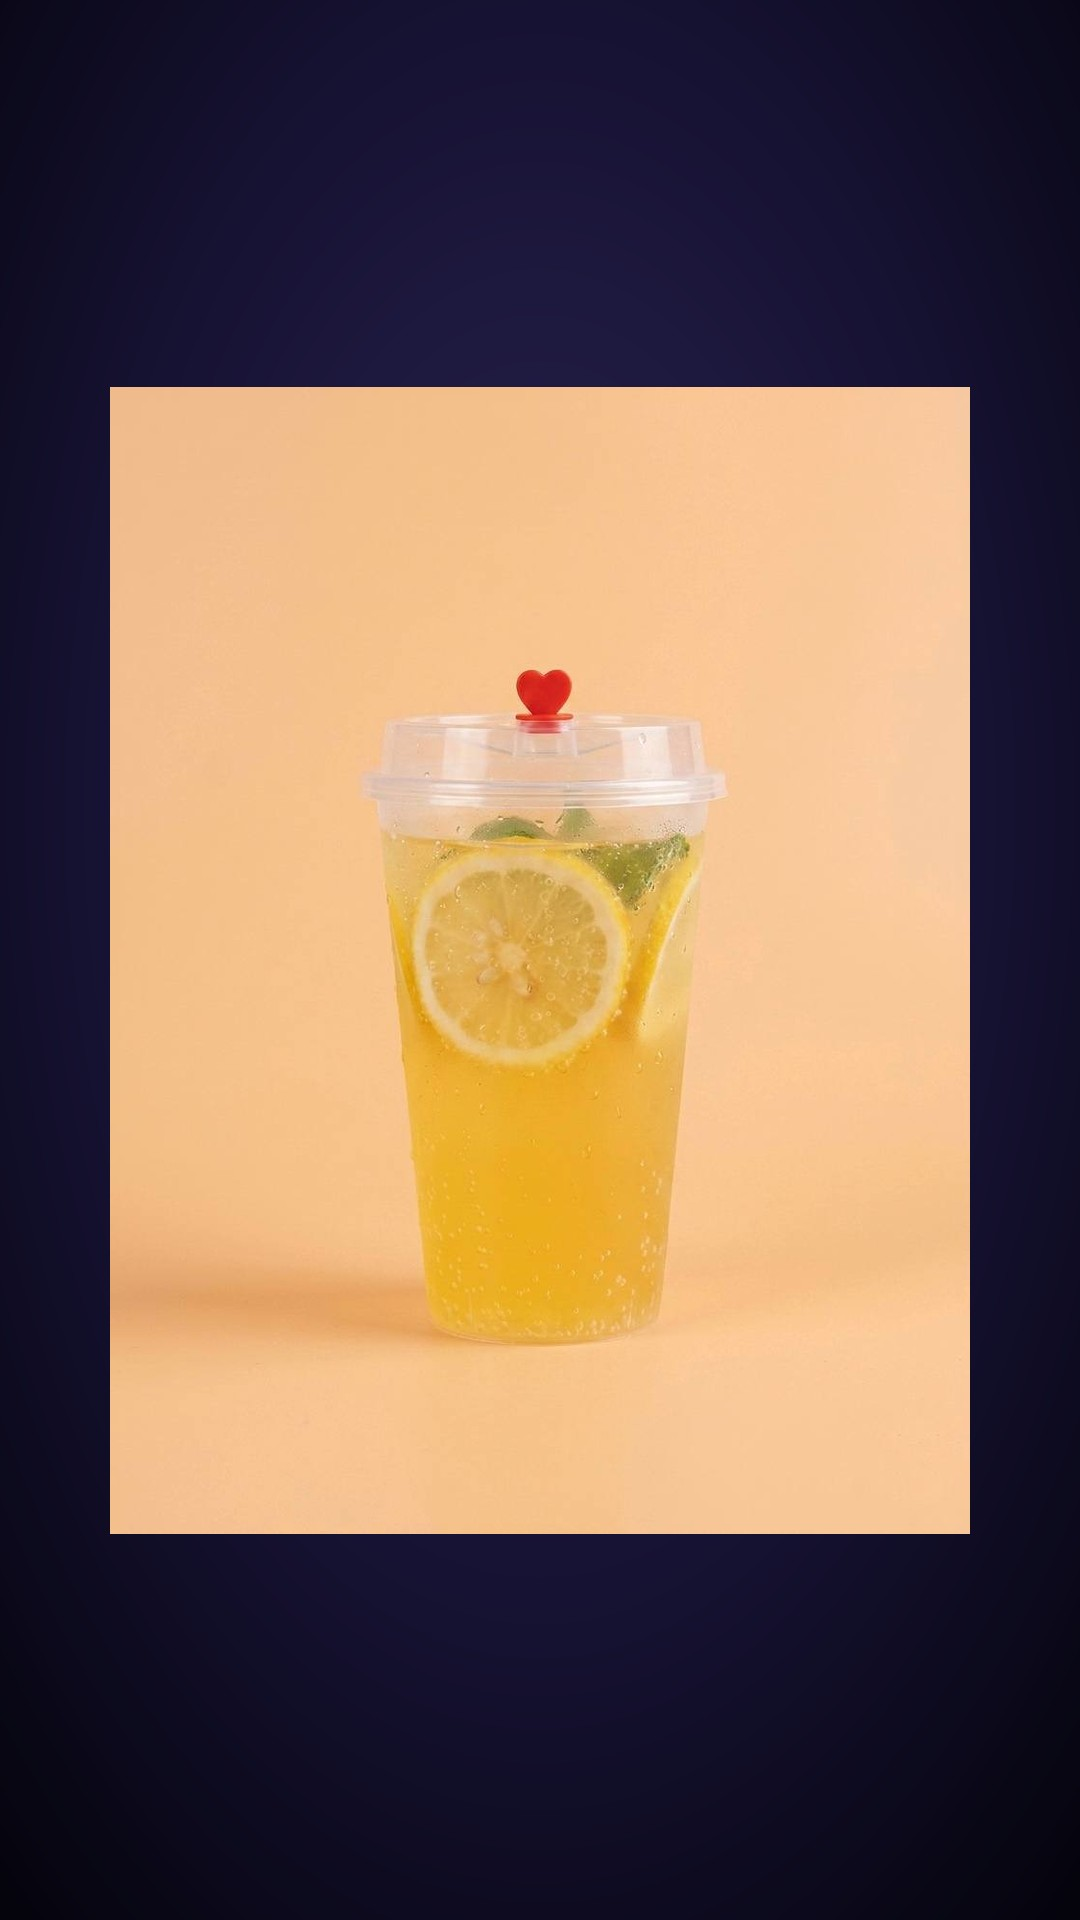
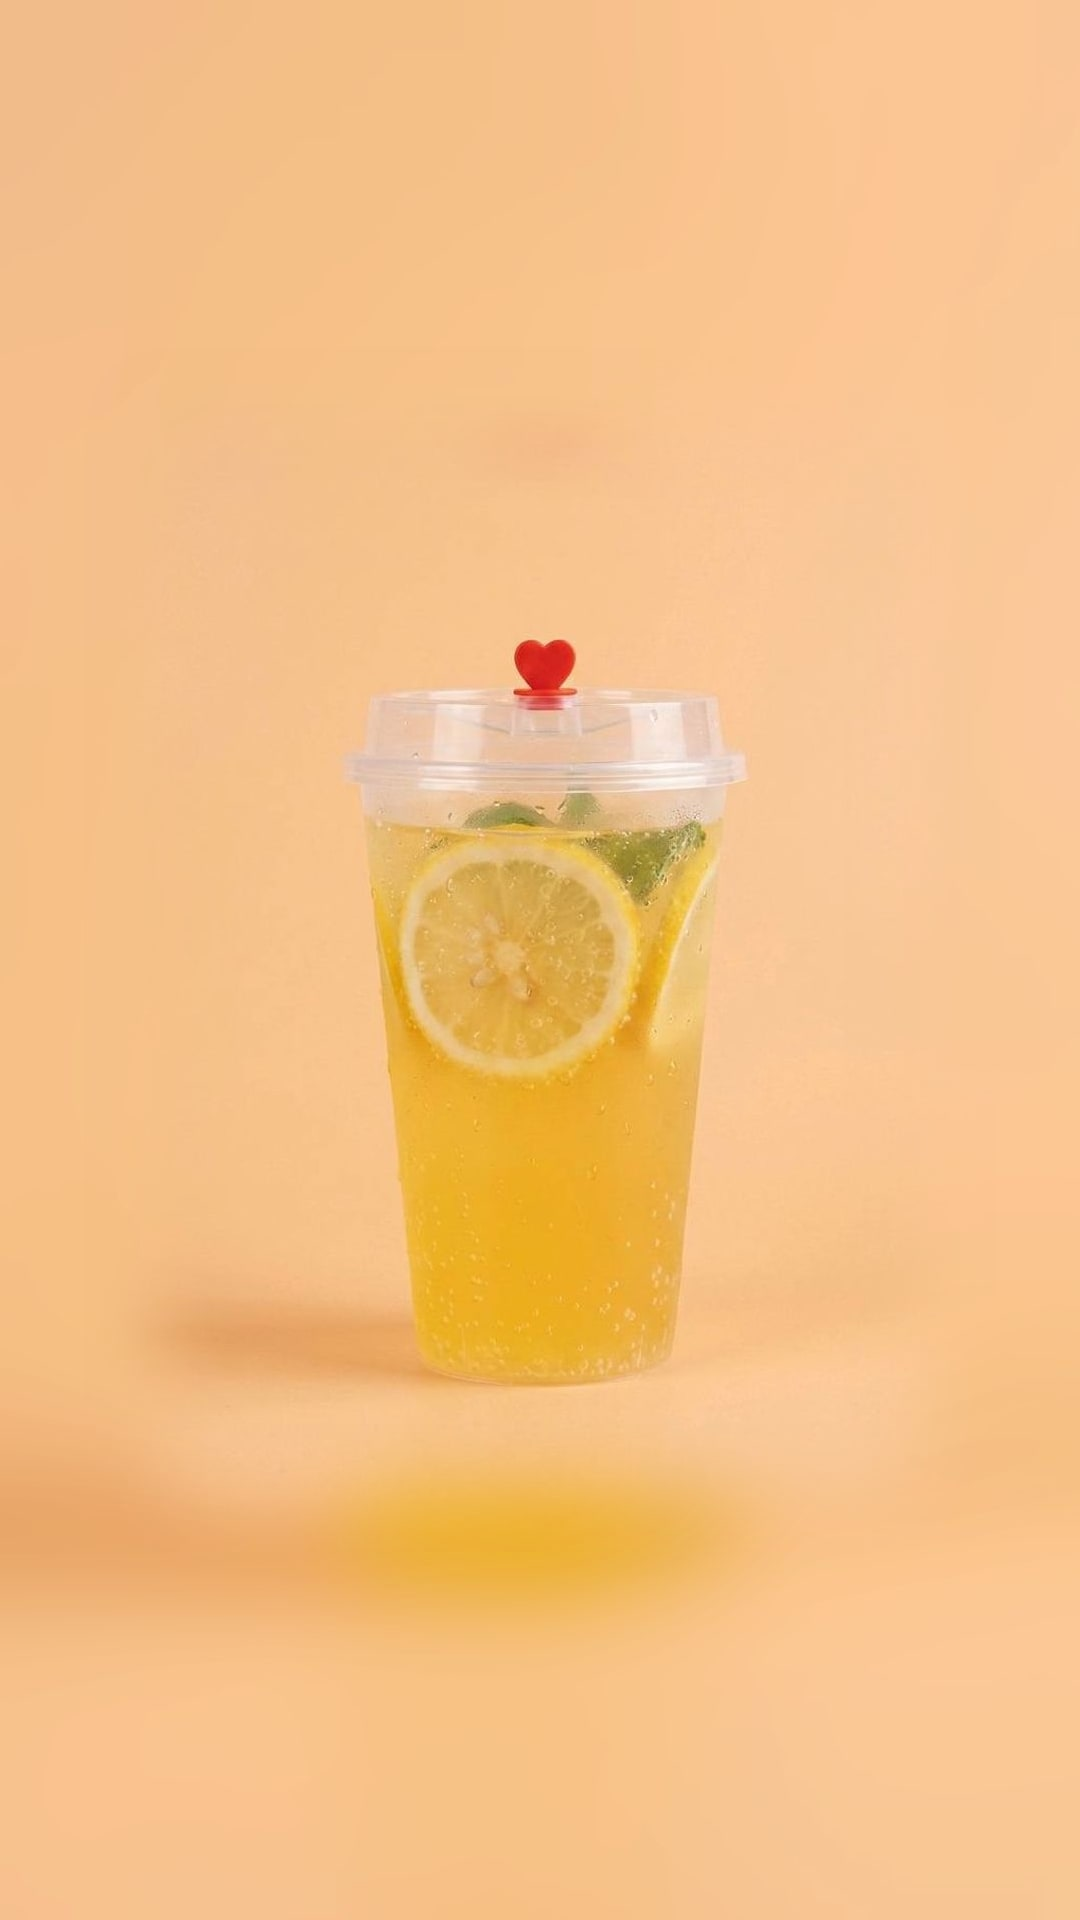
fix: stop caption badges covering neighbouring words; reblend fallback art
Two defects found while reviewing an actual 6 Mbps export.

Captions: the active-word highlight badge extends CAPTION_BADGE_PAD_X
(20px) past the word on each side, but words were laid out one space
width apart (~14px at 54px Inter). Every badge therefore painted over
the tail of the previous word — visible as "Munosabatlarda" being
clipped by the "Azizlar" pill. Widens the word gap to clear the badge
and paints all badges in a pass before any glyphs, so a popped word
scaling past its own box can no longer occlude its neighbours.

Fallback art: the previous compositor flood-filled only *white*
backgrounds, so photos shot on peach, blue or beige backdrops kept
their studio background and landed as a hard-edged rectangle on the
dark gradient. Replaces the cutout with a blurred cover-fill of the
photo itself at matched luminance plus a feathered edge, which is
background-colour agnostic and leaves no seam or halo.

diff --git a/components/VideoPlayer.tsx b/components/VideoPlayer.tsx
@@ -60,6 +60,12 @@ interface Particle {
 
 const OUTRO_DURATION = 9.0; // 9 seconds for Luxe Core branding & advert showcase
 
+// The active-word highlight badge is drawn this far past the word on each side. A plain
+// space (~14px at 54px Inter) is narrower than that, so laying words out by space width
+// made every badge paint over the tail of the previous word.
+const CAPTION_BADGE_PAD_X = 20;
+const CAPTION_WORD_GAP = CAPTION_BADGE_PAD_X + 12;
+
 const VideoPlayer: React.FC<VideoPlayerProps> = ({ 
   images, 
   audioBase64, 
@@ -409,8 +415,7 @@ const VideoPlayer: React.FC<VideoPlayerProps> = ({
     
     const fontSize = 54; 
     ctx.font = `900 ${fontSize}px Inter, sans-serif`;
-    const maxWidth = WIDTH - 160; 
-    const spaceWidth = ctx.measureText(' ').width;
+    const maxWidth = WIDTH - 160;
 
     return scriptSegments.map(segmentText => {
       const segmentCharCount = segmentText.length;
@@ -440,14 +445,14 @@ const VideoPlayer: React.FC<VideoPlayerProps> = ({
 
       wordTimings.forEach((wt) => {
          const wWidth = wt.width || 0;
-         const potentialWidth = currentLineWidth + wWidth + (currentLineWords.length > 0 ? spaceWidth : 0);
+         const potentialWidth = currentLineWidth + wWidth + (currentLineWords.length > 0 ? CAPTION_WORD_GAP : 0);
 
          if (potentialWidth > maxWidth && currentLineWords.length > 0) {
              lines.push({ words: currentLineWords, totalWidth: currentLineWidth });
              currentLineWords = [wt];
              currentLineWidth = wWidth;
          } else {
-             if (currentLineWords.length > 0) currentLineWidth += spaceWidth;
+             if (currentLineWords.length > 0) currentLineWidth += CAPTION_WORD_GAP;
              currentLineWords.push(wt);
              currentLineWidth += wWidth;
          }
@@ -788,7 +793,6 @@ const VideoPlayer: React.FC<VideoPlayerProps> = ({
         const fontSize = 54;
         ctx.font = `900 ${fontSize}px Inter, sans-serif`;
         ctx.textBaseline = 'middle';
-        const spaceWidth = ctx.measureText(' ').width;
 
         ctx.shadowColor = "rgba(0, 0, 0, 0.9)";
         ctx.shadowBlur = 15;
@@ -832,54 +836,80 @@ const VideoPlayer: React.FC<VideoPlayerProps> = ({
                ctx.restore();
              }
 
-             line.words.forEach((wt) => {
-                const isWordActive = time >= wt.start && time < wt.end;
-                
-                ctx.save();
-                
-                let wordScale = 1.0;
-                let yOffset = 0;
+             // Lay the line out up front, then paint the active word's highlight badge before
+             // any glyphs. Drawn inline, the badge lands on top of whichever neighbour it
+             // overlaps once the word pops past its own box.
+             const wordX: number[] = [];
+             {
+                let x = currentX;
+                line.words.forEach((wt) => { wordX.push(x); x += (wt.width || 0) + CAPTION_WORD_GAP; });
+             }
 
-                if (isWordActive) {
-                    // CapCut / TikTok Spring Pop & Bounce Animation
-                    const wordDuration = Math.max(0.1, wt.end - wt.start);
-                    const activeProgress = Math.min(1, Math.max(0, (time - wt.start) / wordDuration));
-                    wordScale = 1.0 + 0.22 * Math.sin(activeProgress * Math.PI); // Elastic pop curve
-                    yOffset = -4 * Math.sin(activeProgress * Math.PI); // Subtle float
+             const popFor = (wt: WordTiming) => {
+                if (!(time >= wt.start && time < wt.end)) return { scale: 1.0, yOffset: 0 };
+                // CapCut / TikTok Spring Pop & Bounce Animation
+                const wordDuration = Math.max(0.1, wt.end - wt.start);
+                const activeProgress = Math.min(1, Math.max(0, (time - wt.start) / wordDuration));
+                return {
+                    scale: 1.0 + 0.22 * Math.sin(activeProgress * Math.PI), // Elastic pop curve
+                    yOffset: -4 * Math.sin(activeProgress * Math.PI)         // Subtle float
+                };
+             };
+
+             const badgeFill: Record<string, { fill: string; glow: string }> = {
+                [CaptionStyle.INSTAGRAM_WHITE]: { fill: '#ffffff', glow: 'rgba(255, 255, 255, 0.8)' },
+                [CaptionStyle.NEON_GLOW]: { fill: '#06b6d4', glow: 'rgba(6, 182, 212, 0.9)' },
+                [CaptionStyle.TIKTOK_YELLOW]: { fill: '#facc15', glow: 'rgba(250, 204, 21, 0.75)' }
+             };
+
+             line.words.forEach((wt, idx) => {
+                if (!(time >= wt.start && time < wt.end)) return;
+                const style = badgeFill[captionStyle] || badgeFill[CaptionStyle.TIKTOK_YELLOW];
+                const { scale, yOffset } = popFor(wt);
+                const wWidth = wt.width || 0;
+                const cx = wordX[idx] + wWidth / 2;
+                const cy = yPos + yOffset;
+                const bW = wWidth + CAPTION_BADGE_PAD_X * 2;
+                const bH = fontSize + 14;
+
+                ctx.save();
+                ctx.translate(cx, cy);
+                ctx.scale(scale, scale);
+                ctx.translate(-cx, -cy);
+                ctx.fillStyle = style.fill;
+                ctx.shadowColor = style.glow;
+                ctx.shadowBlur = 24;
+                ctx.beginPath();
+                if (ctx.roundRect) {
+                  ctx.roundRect(wordX[idx] - CAPTION_BADGE_PAD_X, cy - bH / 2, bW, bH, 18);
+                } else {
+                  ctx.rect(wordX[idx] - CAPTION_BADGE_PAD_X, cy - bH / 2, bW, bH);
                 }
-                
+                ctx.fill();
+                ctx.restore();
+             });
+
+             line.words.forEach((wt, idx) => {
+                const isWordActive = time >= wt.start && time < wt.end;
+
+                ctx.save();
+
+                const { scale: wordScale, yOffset } = popFor(wt);
+
+                currentX = wordX[idx];
                 const wWidth = wt.width || 0;
                 const wordCenterX = currentX + wWidth / 2;
                 const wordCenterY = yPos + yOffset;
-                
+
                 ctx.translate(wordCenterX, wordCenterY);
                 ctx.scale(wordScale, wordScale);
                 ctx.translate(-wordCenterX, -wordCenterY);
 
+                // Badges were already painted in the pass above, so this only draws glyphs.
+                ctx.font = `900 ${fontSize}px "Inter", sans-serif`;
+
                 if (captionStyle === CaptionStyle.INSTAGRAM_WHITE) {
-                  ctx.font = `900 ${fontSize}px "Inter", sans-serif`;
                   if (isWordActive) {
-                    // CapCut Instagram Active White Badge
-                    const badgePadX = 18;
-                    const badgePadY = 14;
-                    const bW = wWidth + badgePadX * 2;
-                    const bH = fontSize + badgePadY;
-                    const bX = currentX - badgePadX;
-                    const bY = (yPos + yOffset) - bH / 2;
-
-                    ctx.save();
-                    ctx.fillStyle = '#ffffff';
-                    ctx.shadowColor = 'rgba(255, 255, 255, 0.8)';
-                    ctx.shadowBlur = 22;
-                    ctx.beginPath();
-                    if (ctx.roundRect) {
-                      ctx.roundRect(bX, bY, bW, bH, 16);
-                    } else {
-                      ctx.rect(bX, bY, bW, bH);
-                    }
-                    ctx.fill();
-                    ctx.restore();
-
                     ctx.shadowColor = 'transparent';
                     ctx.fillStyle = '#000000';
                     ctx.fillText(wt.word, currentX, yPos + yOffset);
@@ -890,29 +920,7 @@ const VideoPlayer: React.FC<VideoPlayerProps> = ({
                     ctx.fillText(wt.word, currentX, yPos + yOffset);
                   }
                 } else if (captionStyle === CaptionStyle.NEON_GLOW) {
-                  ctx.font = `900 ${fontSize}px "Inter", sans-serif`;
                   if (isWordActive) {
-                    // CapCut Neon Cyan Active Badge
-                    const badgePadX = 18;
-                    const badgePadY = 14;
-                    const bW = wWidth + badgePadX * 2;
-                    const bH = fontSize + badgePadY;
-                    const bX = currentX - badgePadX;
-                    const bY = (yPos + yOffset) - bH / 2;
-
-                    ctx.save();
-                    ctx.fillStyle = '#06b6d4'; // Cyan neon badge
-                    ctx.shadowColor = 'rgba(6, 182, 212, 0.9)';
-                    ctx.shadowBlur = 30;
-                    ctx.beginPath();
-                    if (ctx.roundRect) {
-                      ctx.roundRect(bX, bY, bW, bH, 16);
-                    } else {
-                      ctx.rect(bX, bY, bW, bH);
-                    }
-                    ctx.fill();
-                    ctx.restore();
-
                     ctx.shadowColor = 'transparent';
                     ctx.fillStyle = '#0f172a'; // Dark obsidian text on cyan
                     ctx.fillText(wt.word, currentX, yPos + yOffset);
@@ -928,28 +936,7 @@ const VideoPlayer: React.FC<VideoPlayerProps> = ({
                   }
                 } else {
                   // CaptionStyle.TIKTOK_YELLOW (CapCut Standard TikTok Style)
-                  ctx.font = `900 ${fontSize}px "Inter", sans-serif`;
                   if (isWordActive) {
-                    const badgePadX = 20;
-                    const badgePadY = 14;
-                    const bW = wWidth + badgePadX * 2;
-                    const bH = fontSize + badgePadY;
-                    const bX = currentX - badgePadX;
-                    const bY = (yPos + yOffset) - bH / 2;
-
-                    ctx.save();
-                    ctx.fillStyle = '#facc15'; // High-contrast TikTok Yellow
-                    ctx.shadowColor = 'rgba(250, 204, 21, 0.75)';
-                    ctx.shadowBlur = 24;
-                    ctx.beginPath();
-                    if (ctx.roundRect) {
-                      ctx.roundRect(bX, bY, bW, bH, 18);
-                    } else {
-                      ctx.rect(bX, bY, bW, bH);
-                    }
-                    ctx.fill();
-                    ctx.restore();
-
                     ctx.shadowColor = 'transparent';
                     ctx.fillStyle = '#000000';
                     ctx.fillText(wt.word, currentX, yPos + yOffset);
@@ -965,8 +952,6 @@ const VideoPlayer: React.FC<VideoPlayerProps> = ({
                 }
                 
                 ctx.restore();
-
-                currentX += wWidth + spaceWidth;
               });
         }
     }
